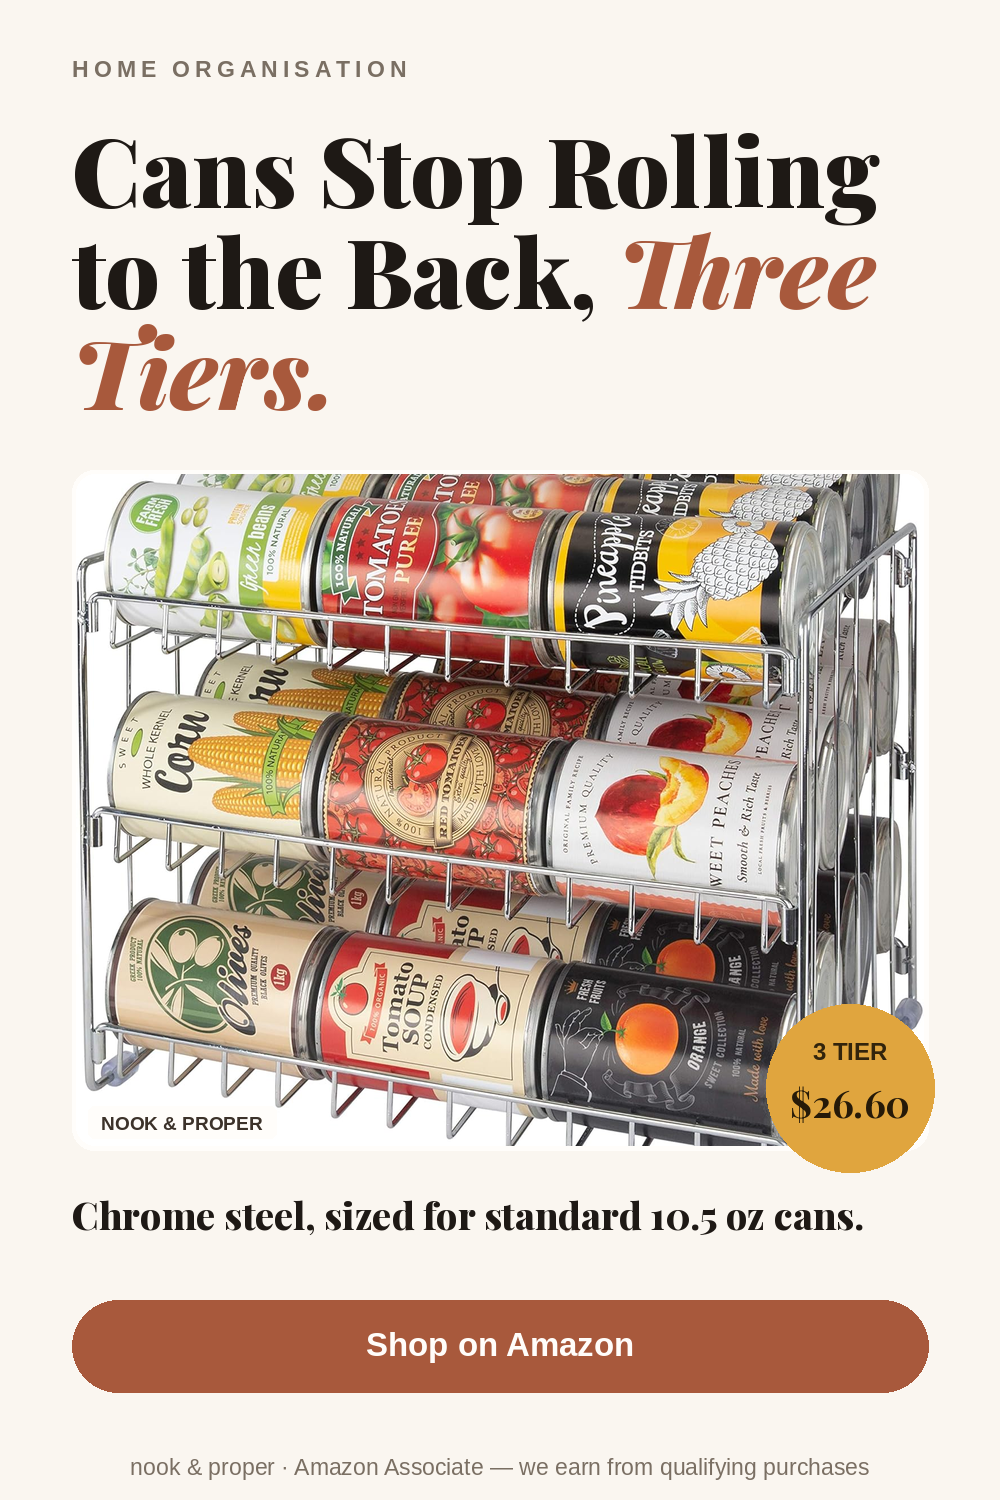
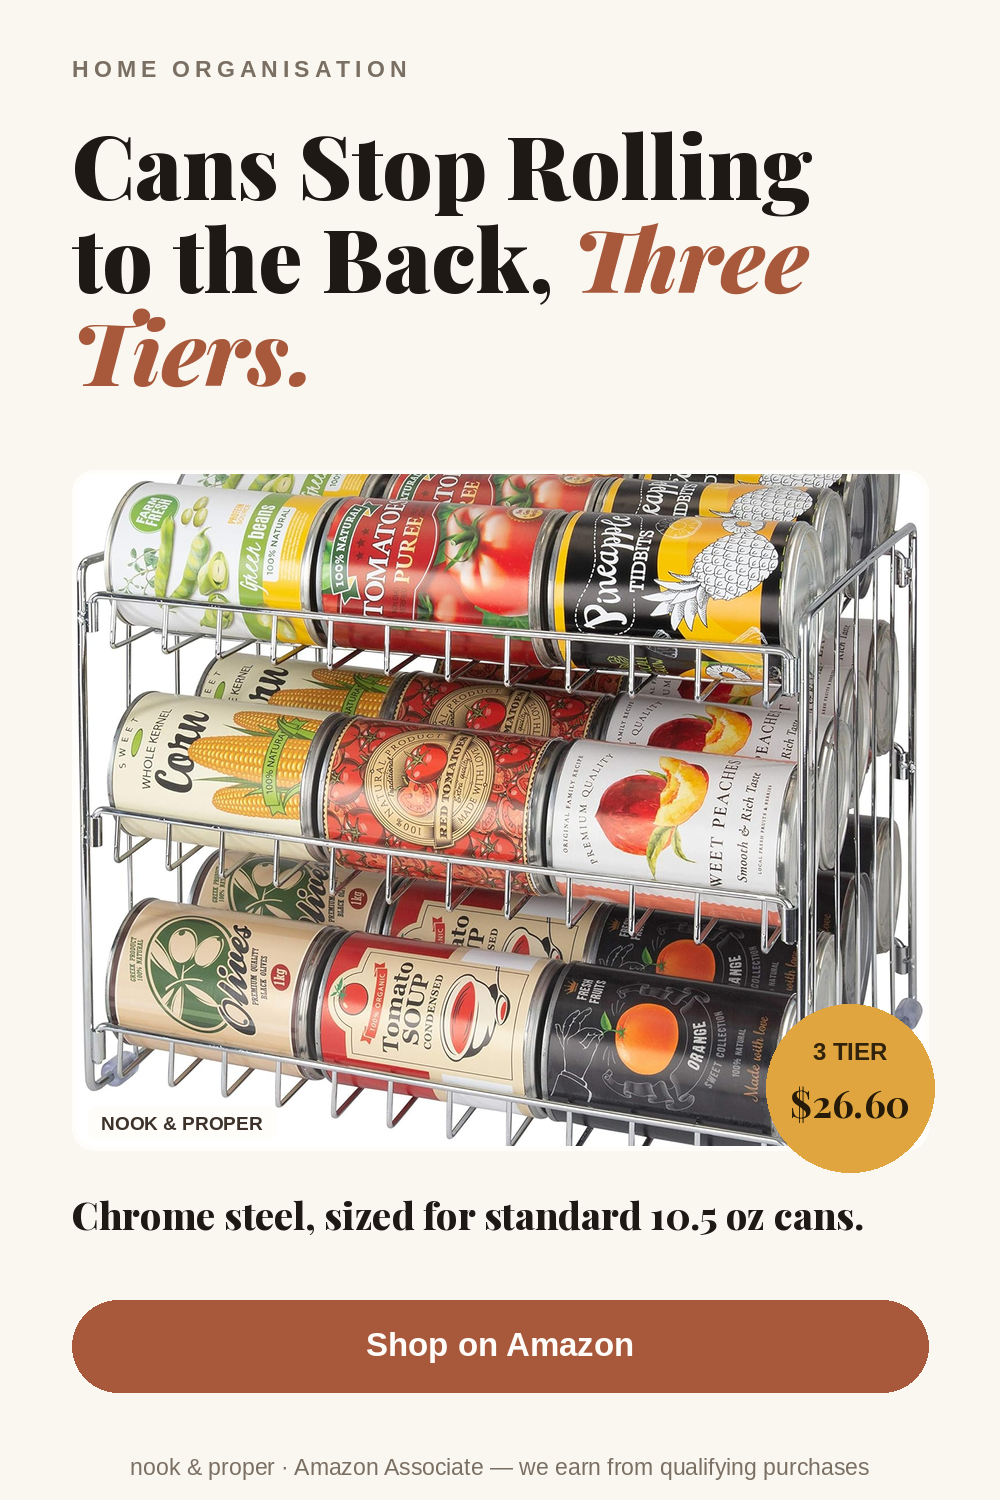
fix pin headline margin + sync images

Changed region(s): [[0.062, 0.0613, 0.899, 0.276]]

diff --git a/pin_factory.py b/pin_factory.py
@@ -135,7 +135,7 @@ def compose(image_path, out_path, kicker, headline, price="", brand="kada finds"
         for w, is_acc in words:
             fnt = af if is_acc else hf
             ww = d.textlength(w + " ", font=fnt)
-            if cur and curw + ww - space > max_w:
+            if cur and curw + ww - space > max_w * 0.94:
                 lines.append(cur); cur, curw = [], 0.0
             cur.append((w, fnt, is_acc)); curw += ww
         if cur:
